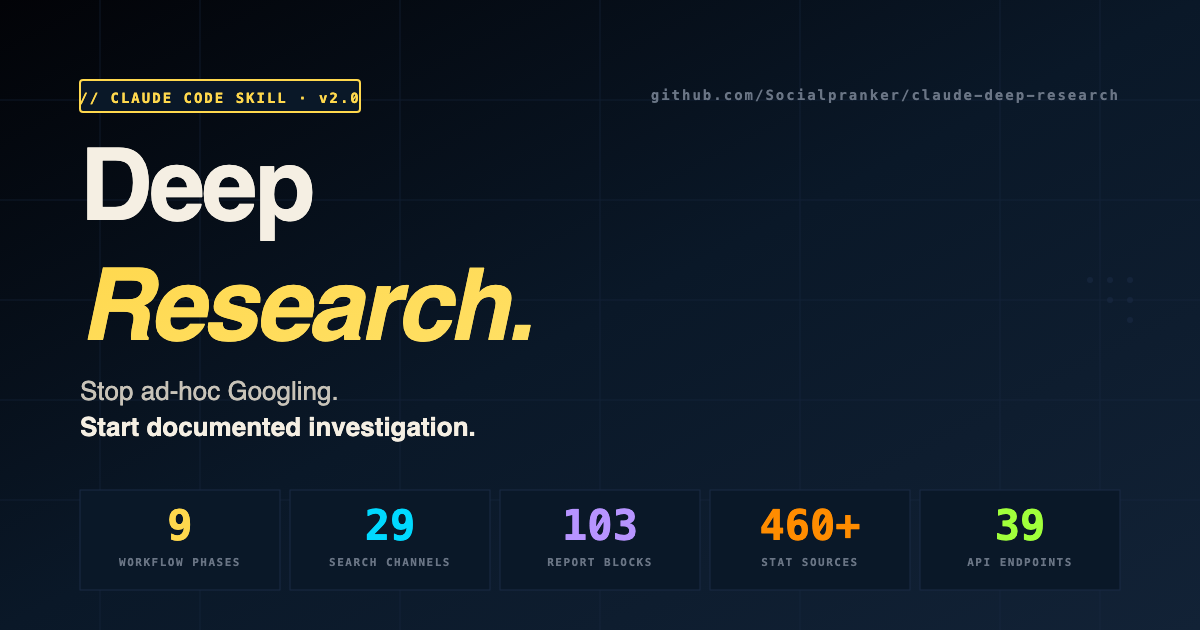
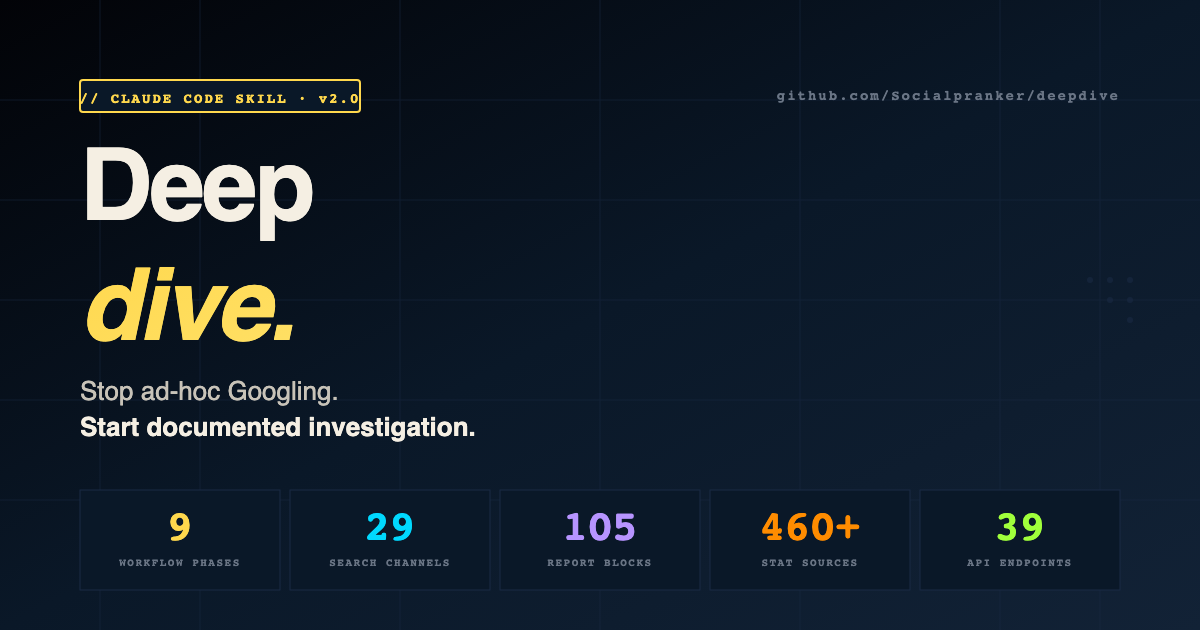
rebrand: видимый бренд "Deep Research" → "Deepdive"
SKILL.md frontmatter (name: deepdive) и repo уже были переименованы
раньше, но заголовки/тексты/og-картинка ещё показывали старый бренд —
H1 в README, CONTRIBUTING, SKILL.md heading, title/og/twitter meta и
i18n-строки на сайте (en+ru), og-image.svg (текст "Deep Research." и
старый github.com/.../claude-deep-research в углу картинки).

Не трогал упоминания "ChatGPT Deep Research" — это конкурентный
продукт в FAQ-сравнении, не наш бренд.

Заодно поправил og-image.svg: REPORT BLOCKS показывал устаревшее 103
вместо актуальных 105 (scripts/catalog_counts.py). Перерендерил
og-image.png из SVG через headless Chromium (playwright) в 1200×630 —
совпадает с og:image:width/height в docs/index.html.

161/161 тестов, ruff, stamp_docs --check — все зелёные.

diff --git a/docs/index.html b/docs/index.html
@@ -3,7 +3,7 @@
 <head>
 <meta charset="UTF-8">
 <meta name="viewport" content="width=device-width, initial-scale=1.0">
-<title data-i18n="meta.title">Deep Research — Claude Code Skill for Documented Investigation</title>
+<title data-i18n="meta.title">Deepdive — Claude Code Skill for Documented Investigation</title>
 
 <!-- Favicon -->
 <link rel="icon" type="image/svg+xml" href="/deepdive/favicon.svg">
@@ -12,7 +12,7 @@
 <meta name="description" data-i18n-attr="content" data-i18n="meta.description" content="A <!--gen:count:phases-->9<!--/gen-->-phase meta-research skill for Claude Code. Stop ad-hoc Googling, start documented investigation. <!--gen:count:stat_sources-->460<!--/gen-->+ stat sources, <!--gen:count:api-->39<!--/gen-->+ APIs, <!--gen:count:blocks-->105<!--/gen--> report blocks, weekly auto-validation.">
 
 <!-- Open Graph -->
-<meta property="og:title" content="Deep Research — Claude Code Skill">
+<meta property="og:title" content="Deepdive — Claude Code Skill">
 <meta property="og:description" content="Stop ad-hoc Googling. Start documented investigation. <!--gen:count:phases-->9<!--/gen-->-phase pipeline with source triangulation and adversarial review.">
 <meta property="og:image" content="https://socialpranker.github.io/deepdive/og-image.png">
 <meta property="og:image:width" content="1200">
@@ -22,7 +22,7 @@
 
 <!-- Twitter -->
 <meta name="twitter:card" content="summary_large_image">
-<meta name="twitter:title" content="Deep Research — Claude Code Skill">
+<meta name="twitter:title" content="Deepdive — Claude Code Skill">
 <meta name="twitter:description" content="Stop ad-hoc Googling. Start documented investigation.">
 <meta name="twitter:image" content="https://socialpranker.github.io/deepdive/og-image.png">
 
@@ -1047,7 +1047,7 @@ footer a {
   <h2 class="section-title" data-i18n="why.title">Why this exists</h2>
   <p class="section-intro" data-i18n="why.intro">
     Most AI research is one prompt, one wall of text, no way to verify or reuse.
-    Deep Research turns that into a process you can audit.
+    Deepdive turns that into a process you can audit.
   </p>
 
   <div class="compare">
@@ -1376,7 +1376,7 @@ zip -r ../deepdive.skill . \
   // ──────────────── i18n ────────────────
   const translations = {
     en: {
-      'meta.title': 'Deep Research — Claude Code Skill for Documented Investigation',
+      'meta.title': 'Deepdive — Claude Code Skill for Documented Investigation',
       'meta.description': 'A <!--gen:count:phases-->9<!--/gen-->-phase meta-research skill for Claude Code. Stop ad-hoc Googling, start documented investigation. <!--gen:count:stat_sources-->460<!--/gen-->+ stat sources, <!--gen:count:api-->39<!--/gen-->+ APIs, <!--gen:count:blocks-->105<!--/gen--> report blocks, weekly auto-validation.',
 
       'nav.how': 'how it works',
@@ -1399,7 +1399,7 @@ zip -r ../deepdive.skill . \
 
       'why.tag': '§ 01 · methodology',
       'why.title': 'Why this exists',
-      'why.intro': 'Most AI research is one prompt, one wall of text, no way to verify or reuse. Deep Research turns that into a process you can audit.',
+      'why.intro': 'Most AI research is one prompt, one wall of text, no way to verify or reuse. Deepdive turns that into a process you can audit.',
       'why.bad_stamp': 'REJECTED',
       'why.bad_title': 'Without this',
       'why.bad_1': 'One-shot prompt, no plan, no documented decisions',
@@ -1521,7 +1521,7 @@ zip -r ../deepdive.skill . \
       'footer.issues': 'Issues',
     },
     ru: {
-      'meta.title': 'Deep Research — навык Claude Code для задокументированного исследования',
+      'meta.title': 'Deepdive — навык Claude Code для задокументированного исследования',
       'meta.description': 'Навык meta-research для Claude Code из <!--gen:count:phases-->9<!--/gen--> фаз. Не ад-хок поиск в Google, а исследование с источниками. <!--gen:count:stat_sources-->460<!--/gen-->+ статистических источников, <!--gen:count:api-->39<!--/gen-->+ API, <!--gen:count:blocks-->105<!--/gen--> блоков отчёта, авто-валидация раз в неделю.',
 
       'nav.how': 'как работает',
@@ -1544,7 +1544,7 @@ zip -r ../deepdive.skill . \
 
       'why.tag': '§ 01 · методология',
       'why.title': 'Зачем это нужно',
-      'why.intro': 'Обычный AI-research — один промпт, одна простыня текста, ни проверить, ни переиспользовать. Deep Research превращает это в процесс, который можно проверить.',
+      'why.intro': 'Обычный AI-research — один промпт, одна простыня текста, ни проверить, ни переиспользовать. Deepdive превращает это в процесс, который можно проверить.',
       'why.bad_stamp': 'ОТКЛОНЕНО',
       'why.bad_title': 'Без этого',
       'why.bad_1': 'Один промпт, без плана и задокументированных решений',

diff --git a/README.md b/README.md
@@ -1,6 +1,6 @@
 <div align="center">
 
-# Deep Research
+# Deepdive
 
 ### A structured meta-research skill for Claude Code
 
@@ -441,7 +441,7 @@ The methodology is portable. ~70% of content is LLM-agnostic markdown templates.
 <details>
 <summary><h2>На русском</h2></summary>
 
-**Deep Research** — скилл для [Claude Code](https://claude.com/claude-code), превращающий «загугли это» в дисциплинированный <!--gen:count:phases-->9<!--/gen-->-фазный процесс.
+**Deepdive** — скилл для [Claude Code](https://claude.com/claude-code), превращающий «загугли это» в дисциплинированный <!--gen:count:phases-->9<!--/gen-->-фазный процесс.
 
 ### Что внутри
 

diff --git a/CONTRIBUTING.md b/CONTRIBUTING.md
@@ -1,4 +1,4 @@
-# Contributing to Deep Research
+# Contributing to Deepdive
 
 Thank you for considering a contribution. This skill is most valuable when its **catalog of sources and channels grows** — the world has thousands more sources than the current <!--gen:count:stat_sources-->460<!--/gen-->+, and you might know exactly the right one for a specific industry or methodology.
 

diff --git a/SKILL.md b/SKILL.md
@@ -3,7 +3,7 @@ name: deepdive
 description: Meta-research под вопрос или решение. Веб-поиск, академические источники, Q&A отчёт; каждый источник — отдельный файл с цитатами и метаданными для повторного использования. Использовать когда нужна основа под решение, для деск-ресёрча, валидации гипотезы или чтобы понять как устроен X. Триггеры — "deep research", "глубокое исследование", "проведи ресёрч", "сделай ресёрч", "изучи тему", "разбери тему", "исследуй", "копни глубоко", "deep dive", "ресёрчни".
 ---
 
-# Deep Research — meta-research с дисциплиной
+# Deepdive — meta-research с дисциплиной
 
 Серьёзное многошаговое исследование под вопрос или решение. Каждый источник = файл, отчёт построен как Q&A, тезисы атомарны и пере-используемы.
 